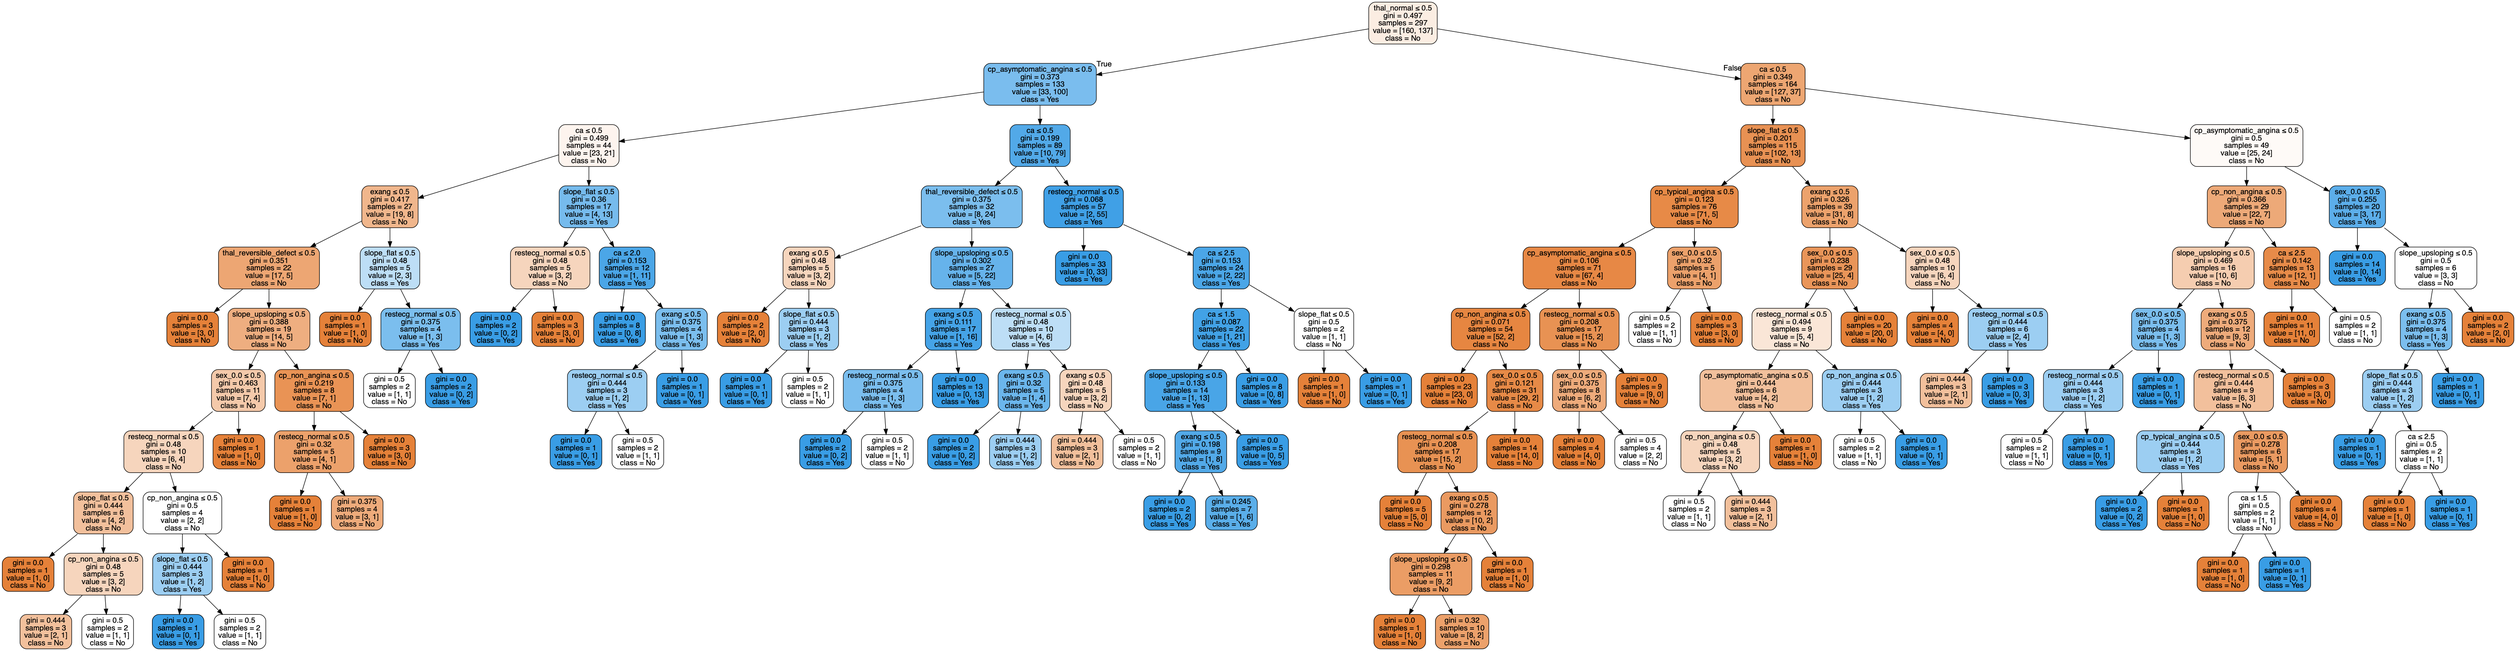
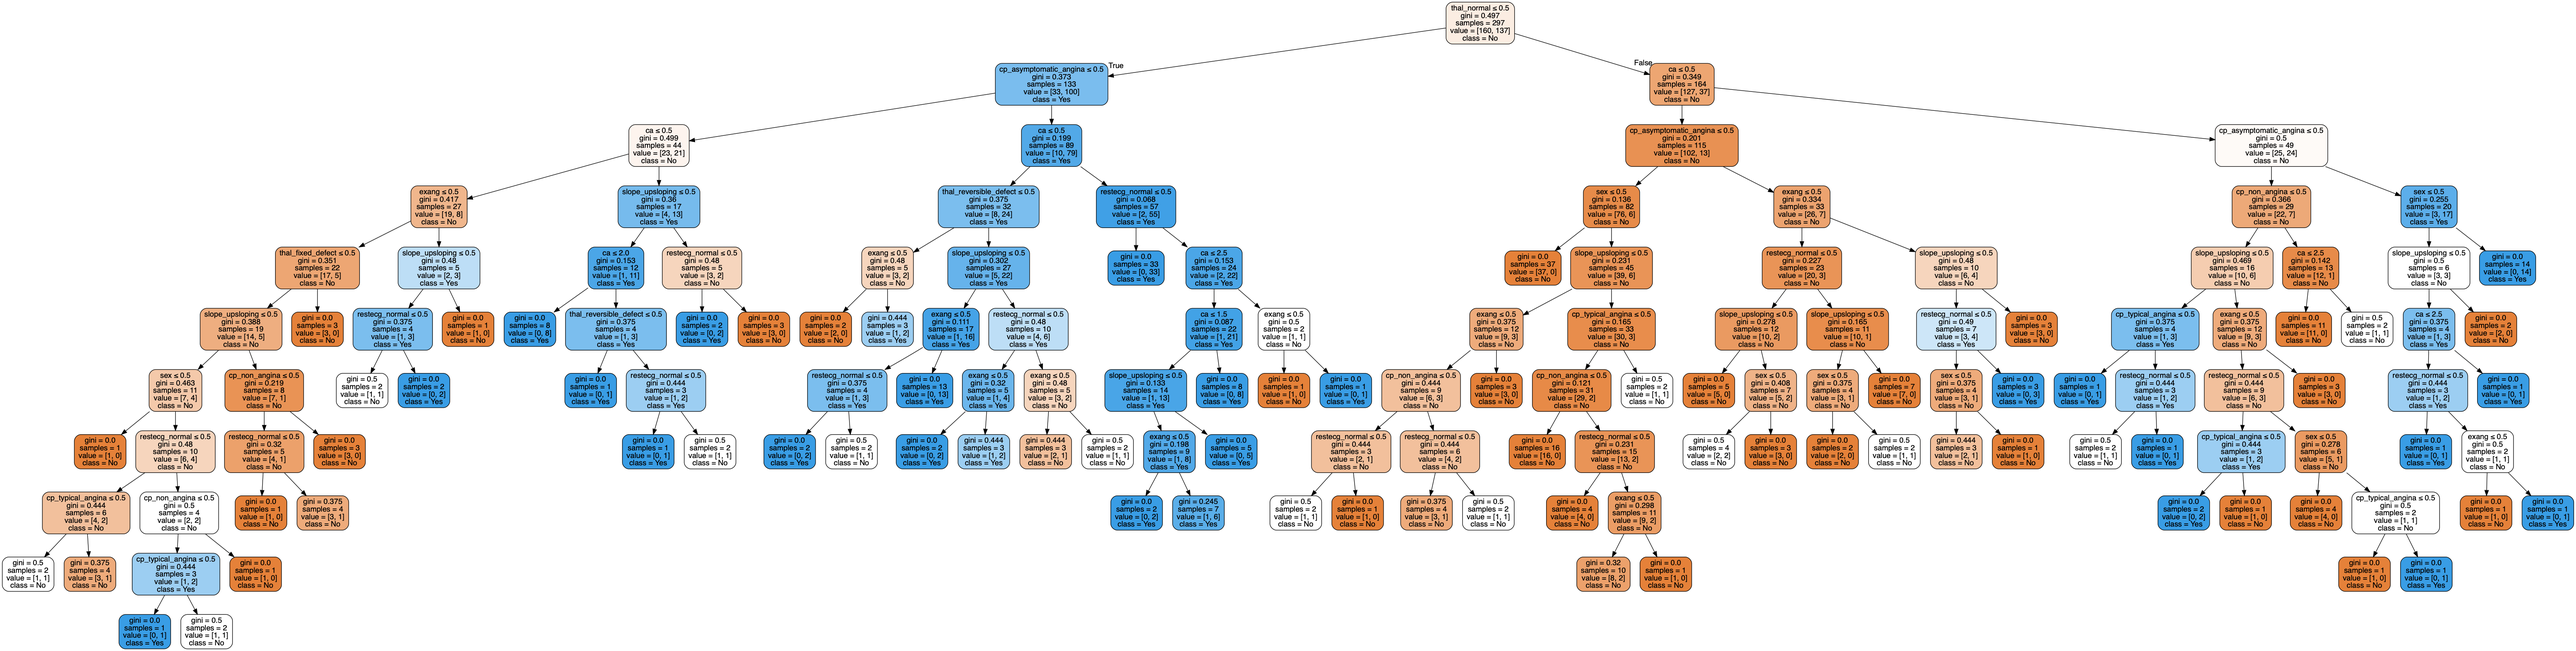
remove sex dummy

diff --git a/model.py b/model.py
@@ -23,12 +23,12 @@ df['ca'] = pd.to_numeric(df['ca'], errors='coerce')
 df['target'].replace(to_replace=[1, 2, 3, 4], value=1, inplace=True)
 
 
-#df[['age', 'sex', 'fbs', 'exang', 'ca']] = df[['age', 'sex', 'fbs', 'exang', 'ca']].astype(int)
+df[['age', 'sex', 'fbs', 'exang', 'ca']] = df[['age', 'sex', 'fbs', 'exang', 'ca']].astype(int)
 df.cp = df.cp.astype('category')
 df.restecg = df.restecg.astype('category')
 df.slope = df.slope.astype('category')
 df.thal = df.thal.astype('category')
-df.sex = df.sex.astype('category')
+#df.sex = df.sex.astype('category')
 
 df = pd.get_dummies(df)
 df[['trestbps', 'chol', 'thalach', 'oldpeak']] = df[['trestbps', 'chol', 'thalach', 'oldpeak']].astype(float)
